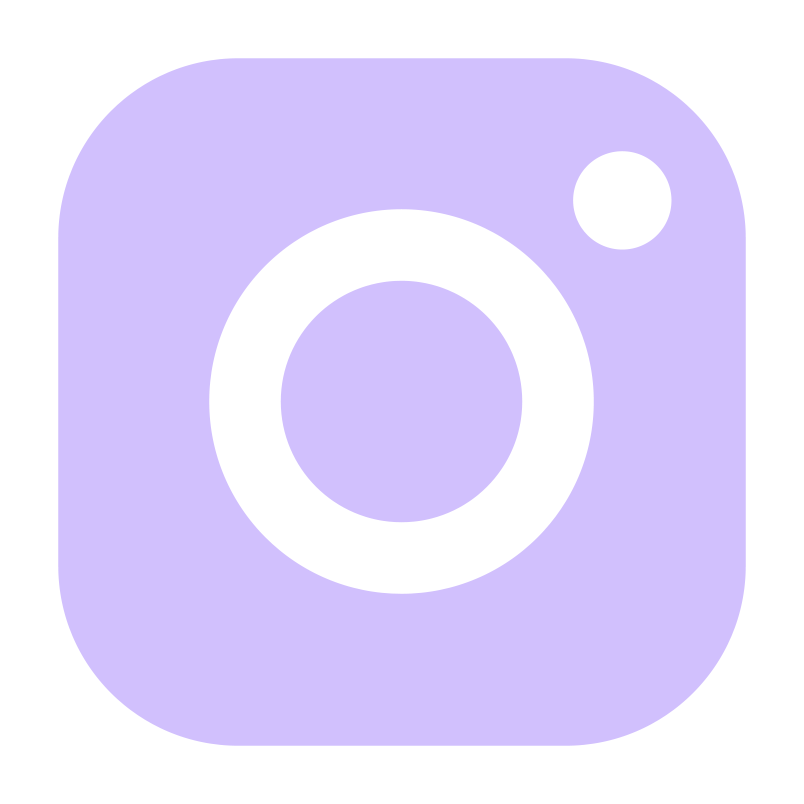
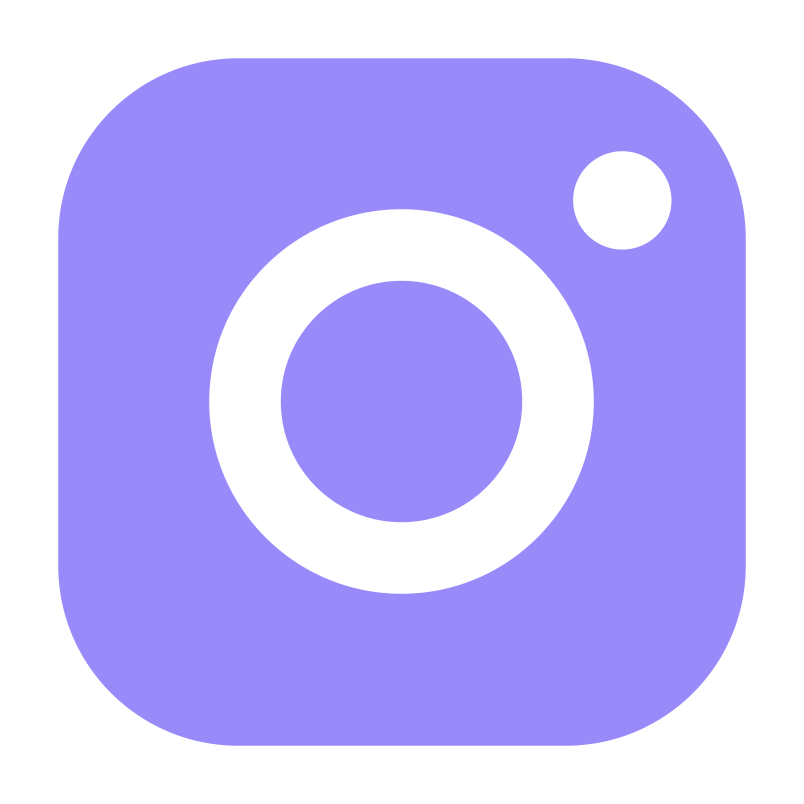
u

diff --git a/css/main.css b/css/main.css
@@ -7,12 +7,11 @@
 }
 
 .Body {
-  position: relative;
-  font-family: 'Inter', sans-serif;
+  position: relative; 
+  font-family: 'Lexend Exa', sans-serif;
   font-size: 1.5rem;
-  font-weight: normal;
   -webkit-font-smoothing: antialiased;
-  color: #46326b;
+  color: #433280;
   background: #fff;
 }
 
@@ -161,35 +160,29 @@
 }
 
 .Nav-logo-text {
-  font-size: 1.7rem;
+  position: absolute;
+  margin: auto;
+  left: 0;
   line-height: 1;
-  font-weight: 500;
-  font-family: 'integral', sans-serif;
-  letter-spacing: 0.3rem;
   color: #fff;
   z-index: -1;
-}
-@media screen and (min-width: 680px) {
-  .Nav-logo-text {
-    font-size: 2.5rem
-  }
-}
-@media screen and (min-width: 1200px) {
-  .Nav-logo-text {
-    font-size: 2.9rem
-  }
+  pointer-events: none;
 }
 
-.Nav-logo-mark {
-  position: absolute;
-  width: 100%;
-  top: 0;
-  bottom: 0;
-  left: 0;
-  margin: auto;
+.Nav-logo-img {
+  max-width: 12rem;
   line-height: 1;
-  pointer-events: none;
   z-index: 99;
+}
+@media screen and (min-width: 680px) {
+  .Nav-logo-img {
+    max-width: 16rem;
+  }
+}
+@media screen and (min-width: 960px) {
+  .Nav-logo-img {
+    max-width: 20rem;
+  }
 }
 
 .Nav-social {
@@ -226,21 +219,16 @@
 
 .Title {
   margin: 0 0 3.4rem;
-  font-size: 2rem;
-  font-weight: normal;
-    line-height: 1.4;
-  letter-spacing: 0.1rem;
+  font-size: 2.2rem;
+  line-height: 1.6;
+  letter-spacing: -0.1rem;
   text-align: center;
-}
-.Title--highlight {
-  font-family: 'integral', sans-serif;
-  letter-spacing: 0.2rem;
-  color: #9a8ff0;
 }
 @media screen and (min-width: 410px) {
   .Title {
     margin: 0 0 4rem;
     font-size: 2.4rem;
+    letter-spacing: -0.2rem;
   }
 }
 @media screen and (min-width: 680px) {
@@ -251,12 +239,13 @@
 }
 @media screen and (min-width: 960px) {
   .Title {
-    font-size: 4rem;
+    font-size: 4.2rem;
+    letter-spacing: -0.3rem;
   }
 }
 @media screen and (min-width: 1280px) {
   .Title {
-    font-size: 4.5rem;
+    font-size: 4.6rem;
   }
 }
 
@@ -264,10 +253,10 @@
 
 a.button {
   cursor: pointer;
-  background-color: #9a8ff0;
+  background-color: #A89AFF;
 } 
 
-div.button {
+div.button { /* disabled button */
   background-color: #cfcbdd;
 }
 
@@ -275,13 +264,11 @@ div.button {
   margin: 0 auto;
   padding: 1.4rem 1.8rem;
   font-size: 1.5rem;
-  letter-spacing: 0.1rem;
-  font-weight: 500;
   border: none;
   color: #fff;
   outline: none;
   appearance: none;
-  opacity: 0.67;
+  opacity: 1;
   transition: opacity .15s;
 }
 @media screen and (min-width: 680px) {
@@ -292,7 +279,7 @@ div.button {
 }
 
 a.button:hover {
-  opacity: 1;
+  opacity: 0.9;
 }
 
 /* --- Video */
@@ -335,7 +322,6 @@ a.button:hover {
 
 .description-title {
   font-size: 1.6rem;
-  letter-spacing: 0.1rem;
   line-height: 1;
   margin: 0 0 0.3rem;
 }
@@ -377,10 +363,10 @@ a.button:hover {
   align-items: center;
   justify-content: center;
   padding: 1.1rem 0 1rem;
-  background-color: #aea5f8;
+  background-color: #998AF9;
   border-radius: 99rem;
   transition: opacity 0.15s;
-  max-width: 23rem;
+  max-width: 24rem;
   margin: 0 auto;
 }
 .LaunchBox-button:hover {
@@ -388,12 +374,12 @@ a.button:hover {
 }
 @media screen and (min-width: 410px) {
   .LaunchBox-button {
-    max-width: 25rem;
+    max-width: 26rem;
   }
 }
 @media screen and (min-width: 960px) {
   .LaunchBox-button {
-    max-width: 32rem;
+    max-width: 34rem;
   }
 }
 
@@ -410,23 +396,23 @@ a.button:hover {
 @media screen and (min-width: 960px) {
   .LaunchBox-platform {
     max-width: 4rem;
-    margin-right: 1.7rem;
+    margin-right: 1.6rem;
   }
 }
 
 .LaunchBox-description {
   color: #fff;
   text-align: center;
-  font-size: 1.3rem;
+  font-size: 1.2rem;
 }
 @media screen and (min-width: 410px) {
   .LaunchBox-description {
-    font-size: 1.4rem;
+    font-size: 1.3rem;
   }
 }
 @media screen and (min-width: 960px) {
   .LaunchBox-description {
-    font-size: 1.8rem;
+    font-size: 1.6rem;
   }
 }
 
@@ -434,11 +420,11 @@ a.button:hover {
   color: #b4b0d1;
   margin-top: 1.5rem;
   line-height: 1.5;
-  font-size: 1.3rem;
+  font-size: 1.2rem;
 }
 @media screen and (min-width: 410px) {
   .LaunchBox-label {
-    font-size: 1.4rem;
+    font-size: 1.3rem;
   }
 }
 @media screen and (min-width: 680px) {
@@ -481,20 +467,16 @@ a.button:hover {
 }
 
 .Footer-item {
-  font-size: 1rem;
+  font-size: 0.9rem;
   color: #a199c5;
-  letter-spacing: 0.1rem;
-  font-weight: 300;
 }
 @media screen and (min-width: 680px) {
   .Footer-item {
-    font-size: 1.6rem;
+    font-size: 1.4rem;
   }
 }
 
 /* --- Closer */ 
-
-.Closer {}
 
 .Closer-spacer {
   margin-top: 6rem;

diff --git a/melatonin/index.html b/melatonin/index.html
@@ -13,7 +13,8 @@
   <meta property="og:url" content="https://www.halfasleep.games">
   <meta property="og:image" content="https://www.halfasleep.games/img/og.png">
   <meta property="og:description" content="Just another indie game studio based in Vancouver, BC.">
-  <link href="https://fonts.googleapis.com/css2?family=Inter:wght@300;400;500&display=swap" rel="stylesheet">
+  <link rel="preconnect" href="https://fonts.gstatic.com">
+  <link href="https://fonts.googleapis.com/css2?family=Lexend+Exa&display=swap" rel="stylesheet">
   <link rel="stylesheet" href="../css/normalize.css">
   <link rel="stylesheet" href="../css/root.css">
   <link rel="stylesheet" href="../css/main.css">
@@ -36,8 +37,8 @@
 <body class="Body">
   <nav class="Nav js-reveal">
     <div class="Nav-logo">
-      <img class="Nav-logo-mark" src="../img/logo.png" alt="logo"/>
-      <a class="Nav-logo-text" href="../">half asleep</a>
+      <a href="../"><img class="Nav-logo-img" src="../img/logo.png" alt="logo"/></a>
+      <span class="Nav-logo-text">half asleep</span>
     </div>
     <div class="Nav-social">
       <a class="Nav-socialLink" href="https://www.instagram.com/halfasleepgames/" target="_blank">

diff --git a/index.html b/index.html
@@ -13,7 +13,8 @@
   <meta property="og:url" content="https://www.halfasleep.games">
   <meta property="og:image" content="https://www.halfasleep.games/img/og.png">
   <meta property="og:description" content="Just another indie game studio based in Vancouver, BC.">
-  <link href="https://fonts.googleapis.com/css2?family=Inter:wght@300;400;500&display=swap" rel="stylesheet">
+  <link rel="preconnect" href="https://fonts.gstatic.com">
+  <link href="https://fonts.googleapis.com/css2?family=Lexend+Exa&display=swap" rel="stylesheet">
   <link rel="stylesheet" href="./css/normalize.css">
   <link rel="stylesheet" href="./css/root.css">
   <link rel="stylesheet" href="./css/main.css">
@@ -36,8 +37,8 @@
 <body class="Body">
   <nav class="Nav js-reveal">
     <div class="Nav-logo">
-      <img class="Nav-logo-mark" src="./img/logo.png" alt="logo"/>
-      <a class="Nav-logo-text" href="../">half asleep</a>
+      <a href="./"><img class="Nav-logo-img" src="./img/logo.png" alt="logo"/></a>
+      <span class="Nav-logo-text">half asleep</span>
     </div>
     <div class="Nav-social">
       <a class="Nav-socialLink" href="https://www.instagram.com/halfasleepgames/" target="_blank">

diff --git a/css/root.css b/css/root.css
@@ -31,12 +31,3 @@ a {
 strong {
   font-weight: 500;
 }
-
-@font-face {
-  font-family: 'integral';
-  src: url('integralcf-bold-webfont.woff2') format('woff2'),
-       url('integralcf-bold-webfont.woff') format('woff');
-  font-weight: normal;
-  font-style: normal;
-
-}
